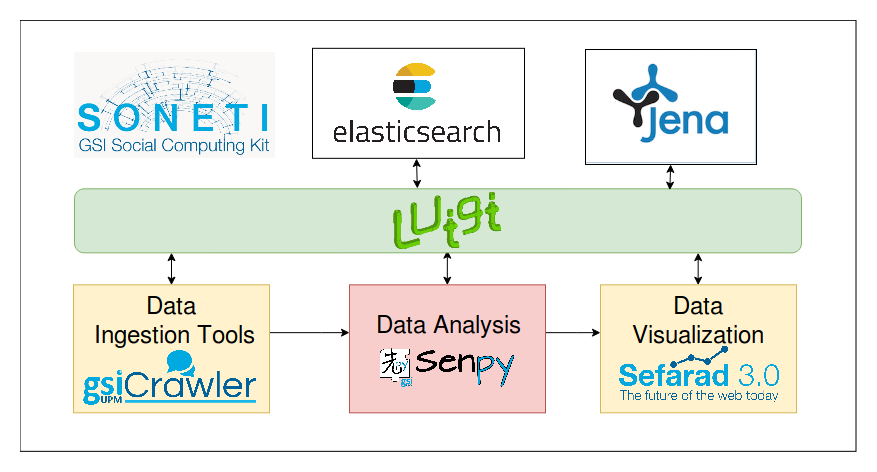
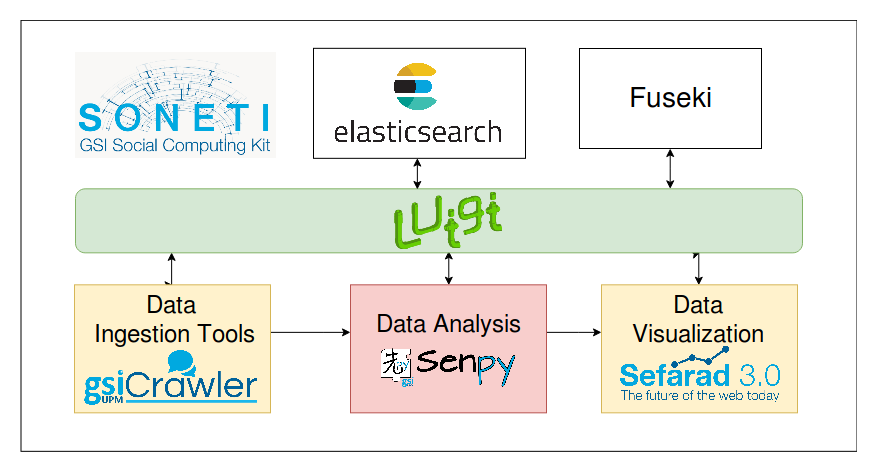
docs improved

diff --git a/docs/usecases.rst b/docs/usecases.rst
@@ -7,163 +7,22 @@ In this documentation we are going to show some uses of Soneti toolkit.
 SOMEDI: Social Media and Digital Interaction Intelligence
 ---------------------------------------------------------
 
-This use case is part of the SOMEDI project. In this use case we are going to track Restaurantes Lateral brand on social media.
+This project uses Soneti toolkit to analyse social media data about different companies. Also uses Artificial Intelligence, Data Analysis and Machine Learning to provide the opportunity to extract and use this information to better serve and engage users and audiences.
 
-We are going to describe this use case in different incremental phases.
+SOMEDI tries to solve the challenge of efficiently generating and utilising social media and digital interaction data enabled intelligence.
 
-I. Use GSICrawler to get tweets and Facebook posts from official accounts
-~~~~~~~~~~~~~~~~~~~~~~~~~~~~~~~~~~~~~~~~~~~~~~~~~~~~~~~~~~~~~~~~~~~~~~~~~
-
-This phase gets tweets and Facebook posts from official accounts and shows results printed.
-
-Below is the detailed part of the task located on `somedi-usecase/workflow.py`.
-
-.. sourcecode:: python 
-
-    class ScrapyTask(GSICrawlerScraper):
-        query = luigi.Parameter()
-        id = luigi.Parameter()
-        number = luigi.Parameter()
-        source = luigi.Parameter()
-        host = 'http://gsicrawler:5000/api/v1'
-
-        def output(self):
-            return luigi.LocalTarget(path='/tmp/_scrapy-%s.json' % self.id)
-
-As shown in the code we select as endpoint our GSICrawler demo service and other parameters are going to be given by command line.
-
-Run the orchestrator's workflow to retrieve the 10 latests tweets:
-
-.. sourcecode:: bash 
-
-    $ docker-compose exec orchestrator python -m luigi --module somedi-usecase.workflow ScrapyTask --query rest_lateral --number 10 --source twitter --id 1
-
-Now run the orchestrator's workflow to retrieve the 10 latests facebook posts, the query must be the official account name on Facebook without @:
-
-.. sourcecode:: bash 
-
-    $ docker-compose exec orchestrator python -m luigi --module somedi-usecase.workflow ScrapyTask --query restauranteslateral --number 10 --source facebook --id 2
+First step of this project is getting data from social networks, such as Twitter and Facebook, talking about a certain brand using GSICrawler. Secondly, we enrich this data using Senpy. We use an entity detector to know what is being talked about in order to later know if the opinion generated about that entity is positive or negative. Last step is to visualize results in a Sefarad dashboard that resumes opinion and trends.
 
 
-II. Analyse collected tweets and Facebook posts with Senpy
-~~~~~~~~~~~~~~~~~~~~~~~~~~~~~~~~~~~~~~~~~~~~~~~~~~~~~~~~~~
 
-This phase improve the previous one adding analysis with Senpy.
+TRIVALENT: Terrorism pReventIon Via rAdicaLisation countEr-NarraTive
+--------------------------------------------------------------------
 
-Below is the detailed part of the task located on `somedi-usecase/workflow.py`.
+This project uses Soneti toolkit to detect potential radicalism messages among social media. 
 
-.. sourcecode:: python 
+GSICrawler serice is in charge of extracting information from several web sources under the news of social media categories. Currently, the available newspapers are CNN News, The New York Times and AlJazeera. Additionally, it is also possible to extract information from PDF sources such as Dabiq Magazine, which has been the official Daesh propaganda magazine for years.
 
-    class AnalysisTask(SenpyAnalysis):
+Furthermore, Senpy plugins provide added value services for data analysis tasks, easing their implementation thanks to Senpy architecture. Each plugin has an entry and a semantically annotated output useful for linked data processes. TRIVALENT project uses two Senpy plugins:
 
-       query = luigi.Parameter()
-       id = luigi.Parameter()
-       number =luigi.Parameter()
-       source = luigi.Parameter()
-       host = 'http://senpy:5000/api/'
-       algorithm = luigi.Parameter()
-       lang = luigi.Parameter()
-     
-       def requires(self):
-           return ScrapyTask(self.id,self.query,self.number,self.source)
-     
-       def output(self):
-           return luigi.LocalTarget(path='/tmp/analysed%s.json'%self.id)
+* **Translator plugin + COGITO plugin**: This analysis takes as input GSICrawler written in a source language (e.g. Arabic), translates it into a target language (e.g English) and extracts information such as people, places and organizations mentioned on it following linked data annotation principles.
 
-As shown in the code we select as endpoint our Senpy service and other parameters are going to be given by command line.
-
-You must select what Senpy's algorithm and language are going to be used in the analysis.
-
-Run again the orchestrator's workflow using sentiment140 plugin in spanish:
-
-.. sourcecode:: bash 
-
-    $ docker-compose exec orchestrator python -m luigi --module somedi-usecase.workflow AnalysisTask --query restauranteslateral --number 10 --source facebook --algorithm sentiment140 --lang es --id 3
-
-.. sourcecode:: bash 
-
-    $ docker-compose exec orchestrator python -m luigi --module somedi-usecase.workflow AnalysisTask --query rest_lateral --number 10 --source twitter --algorithm sentiment140 --lang es --id 4
-
-III. Store collected and analysed tweets on Fuseki and Elasticsearch
-~~~~~~~~~~~~~~~~~~~~~~~~~~~~~~~~~~~~~~~~~~~~~~~~~~~~~~~~~~~~~~~~~~~~
-
-This phase improve the previous one adding a persistence layer to store results. 
-
-Below is the detailed part of the task located on `somedi-usecase/workflow.py`.
-
-.. sourcecode:: python 
-
-    class FusekiTask(CopyToFuseki):
-        
-        id = luigi.Parameter()
-        query = luigi.Parameter()
-        number = luigi.Parameter()
-        source = luigi.Parameter()
-        algorithm = luigi.Parameter()
-        lang = luigi.Parameter()
-        host = 'fuseki'
-        port = 3030
-
-        def requires(self):
-            return AnalysisTask(self.id,self.query,self.number,self.source)
-            
-        def output(self):
-            return luigi.LocalTarget(path='/tmp/_n3-%s.json' % self.id)
-
-    class ElasticsearchTask(CopyToIndex):
-        
-        id = luigi.Parameter()
-        query = luigi.Parameter()
-        number = luigi.Parameter()
-        source = luigi.Parameter()
-        algorithm = luigi.Parameter()
-        lang = luigi.Parameter()
-        index = 'somedi'
-        doc_type = 'lateral'
-        host = 'elasticsearch'
-        port = 9200
-        timeout = 100
-
-        def requires(self):
-            return AnalysisTask(self.id,self.query,self.number,self.source)
-
-    class StoreTask(luigi.Task):
-
-        id = luigi.Parameter()
-        query = luigi.Parameter()
-        number = luigi.Parameter()
-        source = luigi.Parameter()
-        algorithm = luigi.Parameter()
-        lang = luigi.Parameter()
-
-        def requires(self):
-            yield FusekiTask(self.id, self.query, self.number)
-            yield Elasticsearch(self.id, self.query, self.number)
-
-Run again the orchestrator's workflow:
-
-.. sourcecode:: bash 
-    
-    $ docker-compose exec orchestrator python -m luigi --module somedi-usecase.workflow StoreTask --query restauranteslateral --number 10 --source facebook --algorithm sentiment140 --lang es --id 5
-
-    $ docker-compose exec orchestrator python -m luigi --module somedi-usecase.workflow StoreTask --query rest_lateral --number 10 --source twitter --algorithm sentiment140 --lang es --id 6
-
-Now your data is available on elasticsearch and fuseki.
-
-IV. Show stored data in a Sefarad dashboard
-~~~~~~~~~~~~~~~~~~~~~~~~~~~~~~~~~~~~~~~~~~~
-
-Open a web browser and navigate to Sefarad environment on http://localhost:8080. This intectactive dashboard shows tweets and Facebook posts collected and analysed on the previous phase. We can distinguish between posts created by the official account and replies.
-
-V. Use GSICrawler to track direct competitors
-~~~~~~~~~~~~~~~~~~~~~~~~~~~~~~~~~~~~~~~~~~~~~
-
-This phase track other food restaurants chains. In this example we will track 100 Montaditos. We modify our orchestrator's workflow parameters and run it again:
-
-.. sourcecode:: bash 
-    
-    $ docker-compose exec orchestrator python -m luigi --module somedi-usecase.workflow StoreTask --query 100MontaditosSpain --number 10 --source facebook --algorithm sentiment140 --lang es --id 7
-
-    $ docker-compose exec orchestrator python -m luigi --module somedi-usecase.workflow StoreTask --query 100montaditos --number 10 --source twitter --algorithm sentiment140 --lang es --id 8
-
-Sefarad dashboard now is updated with new analysed data talking about 100 Montaditos.

diff --git a/docs/configuration.rst b/docs/configuration.rst
@@ -1,0 +1,164 @@
+=============
+Configuration
+=============
+
+This configuration for the orchestraror is based on the SOMEDI project. In this use example we are going to track Restaurantes Lateral brand on social media.
+
+We are going to describe this example in different incremental phases.
+
+I. Use GSICrawler to get tweets and Facebook posts from official accounts
+~~~~~~~~~~~~~~~~~~~~~~~~~~~~~~~~~~~~~~~~~~~~~~~~~~~~~~~~~~~~~~~~~~~~~~~~~
+
+This phase gets tweets and Facebook posts from official accounts and shows results printed.
+
+Below is the detailed part of the task located on `somedi-usecase/workflow.py`.
+
+.. sourcecode:: python 
+
+    class ScrapyTask(GSICrawlerScraper):
+        query = luigi.Parameter()
+        id = luigi.Parameter()
+        number = luigi.Parameter()
+        source = luigi.Parameter()
+        host = 'http://gsicrawler:5000/api/v1'
+
+        def output(self):
+            return luigi.LocalTarget(path='/tmp/_scrapy-%s.json' % self.id)
+
+As shown in the code we select as endpoint our GSICrawler demo service and other parameters are going to be given by command line.
+
+Run the orchestrator's workflow to retrieve the 10 latests tweets:
+
+.. sourcecode:: bash 
+
+    $ docker-compose exec orchestrator python -m luigi --module somedi-usecase.workflow ScrapyTask --query rest_lateral --number 10 --source twitter --id 1
+
+Now run the orchestrator's workflow to retrieve the 10 latests facebook posts, the query must be the official account name on Facebook without @:
+
+.. sourcecode:: bash 
+
+    $ docker-compose exec orchestrator python -m luigi --module somedi-usecase.workflow ScrapyTask --query restauranteslateral --number 10 --source facebook --id 2
+
+
+II. Analyse collected tweets and Facebook posts with Senpy
+~~~~~~~~~~~~~~~~~~~~~~~~~~~~~~~~~~~~~~~~~~~~~~~~~~~~~~~~~~
+
+This phase improve the previous one adding analysis with Senpy.
+
+Below is the detailed part of the task located on `somedi-usecase/workflow.py`.
+
+.. sourcecode:: python 
+
+    class AnalysisTask(SenpyAnalysis):
+
+       query = luigi.Parameter()
+       id = luigi.Parameter()
+       number =luigi.Parameter()
+       source = luigi.Parameter()
+       host = 'http://senpy:5000/api/'
+       algorithm = luigi.Parameter()
+       lang = luigi.Parameter()
+     
+       def requires(self):
+           return ScrapyTask(self.id,self.query,self.number,self.source)
+     
+       def output(self):
+           return luigi.LocalTarget(path='/tmp/analysed%s.json'%self.id)
+
+As shown in the code we select as endpoint our Senpy service and other parameters are going to be given by command line.
+
+You must select what Senpy's algorithm and language are going to be used in the analysis.
+
+Run again the orchestrator's workflow using sentiment140 plugin in spanish:
+
+.. sourcecode:: bash 
+
+    $ docker-compose exec orchestrator python -m luigi --module somedi-usecase.workflow AnalysisTask --query restauranteslateral --number 10 --source facebook --algorithm sentiment140 --lang es --id 3
+
+.. sourcecode:: bash 
+
+    $ docker-compose exec orchestrator python -m luigi --module somedi-usecase.workflow AnalysisTask --query rest_lateral --number 10 --source twitter --algorithm sentiment140 --lang es --id 4
+
+III. Store collected and analysed tweets on Fuseki and Elasticsearch
+~~~~~~~~~~~~~~~~~~~~~~~~~~~~~~~~~~~~~~~~~~~~~~~~~~~~~~~~~~~~~~~~~~~~
+
+This phase improve the previous one adding a persistence layer to store results. 
+
+Below is the detailed part of the task located on `somedi-usecase/workflow.py`.
+
+.. sourcecode:: python 
+
+    class FusekiTask(CopyToFuseki):
+        
+        id = luigi.Parameter()
+        query = luigi.Parameter()
+        number = luigi.Parameter()
+        source = luigi.Parameter()
+        algorithm = luigi.Parameter()
+        lang = luigi.Parameter()
+        host = 'fuseki'
+        port = 3030
+
+        def requires(self):
+            return AnalysisTask(self.id,self.query,self.number,self.source)
+            
+        def output(self):
+            return luigi.LocalTarget(path='/tmp/_n3-%s.json' % self.id)
+
+    class ElasticsearchTask(CopyToIndex):
+        
+        id = luigi.Parameter()
+        query = luigi.Parameter()
+        number = luigi.Parameter()
+        source = luigi.Parameter()
+        algorithm = luigi.Parameter()
+        lang = luigi.Parameter()
+        index = 'somedi'
+        doc_type = 'lateral'
+        host = 'elasticsearch'
+        port = 9200
+        timeout = 100
+
+        def requires(self):
+            return AnalysisTask(self.id,self.query,self.number,self.source)
+
+    class StoreTask(luigi.Task):
+
+        id = luigi.Parameter()
+        query = luigi.Parameter()
+        number = luigi.Parameter()
+        source = luigi.Parameter()
+        algorithm = luigi.Parameter()
+        lang = luigi.Parameter()
+
+        def requires(self):
+            yield FusekiTask(self.id, self.query, self.number)
+            yield Elasticsearch(self.id, self.query, self.number)
+
+Run again the orchestrator's workflow:
+
+.. sourcecode:: bash 
+    
+    $ docker-compose exec orchestrator python -m luigi --module somedi-usecase.workflow StoreTask --query restauranteslateral --number 10 --source facebook --algorithm sentiment140 --lang es --id 5
+
+    $ docker-compose exec orchestrator python -m luigi --module somedi-usecase.workflow StoreTask --query rest_lateral --number 10 --source twitter --algorithm sentiment140 --lang es --id 6
+
+Now your data is available on elasticsearch and fuseki.
+
+IV. Show stored data in a Sefarad dashboard
+~~~~~~~~~~~~~~~~~~~~~~~~~~~~~~~~~~~~~~~~~~~
+
+Open a web browser and navigate to Sefarad environment on http://localhost:8080. This intectactive dashboard shows tweets and Facebook posts collected and analysed on the previous phase. We can distinguish between posts created by the official account and replies.
+
+V. Use GSICrawler to track direct competitors
+~~~~~~~~~~~~~~~~~~~~~~~~~~~~~~~~~~~~~~~~~~~~~
+
+This phase track other food restaurants chains. In this example we will track 100 Montaditos. We modify our orchestrator's workflow parameters and run it again:
+
+.. sourcecode:: bash 
+    
+    $ docker-compose exec orchestrator python -m luigi --module somedi-usecase.workflow StoreTask --query 100MontaditosSpain --number 10 --source facebook --algorithm sentiment140 --lang es --id 7
+
+    $ docker-compose exec orchestrator python -m luigi --module somedi-usecase.workflow StoreTask --query 100montaditos --number 10 --source twitter --algorithm sentiment140 --lang es --id 8
+
+Sefarad dashboard now is updated with new analysed data talking about 100 Montaditos.

diff --git a/docs/index.rst b/docs/index.rst
@@ -6,9 +6,9 @@
 Welcome to Soneti's documentation!
 ==================================
 
-**Soneti** is a toolkit for **analyzing social media**, such as social networks (e.g. Twitter, Facebook, ...), blogs, YouTube, Newspapers, AppStores, etc.. 
+**Soneti** is a toolkit for **analyzing social media**, such as social networks (e.g. Twitter, Facebook, ...), blogs, YouTube, Newspapers, AppStores, etc..
 
-It obtains data from different sources, in addition it enriches this obtained data by performing different types of automatic analysis. Finally, it allows us to visualize the data obtained in interactive dashboards.
+Soneti provide services to obtain data from different web services, perfom different of analysis in order to enrich extracted data and visualize this analysis results in interactive dashboards.
 
 .. figure:: figures/soneti.png
    :alt: Soneti overview

diff --git a/docs/installation.rst b/docs/installation.rst
@@ -19,6 +19,10 @@ Now images are ready to run:
 
 This installation offers a basic version of each service:
 
+.. figure:: figures/quickstart.png
+   :alt: Soneti demo overview
+
+
 * **GSICrawler:** This ingestion service demo has CNN, New York Times, ElMundo, Facebook and Twitter as possible sources. This service is available on http://localhost:5000
 
 * **Senpy**: This analysis service demo has sentiment140 as sentiment analysis plugin and EmoRand as emotion analysis plugin. This service is available on http://localhost:8000/
